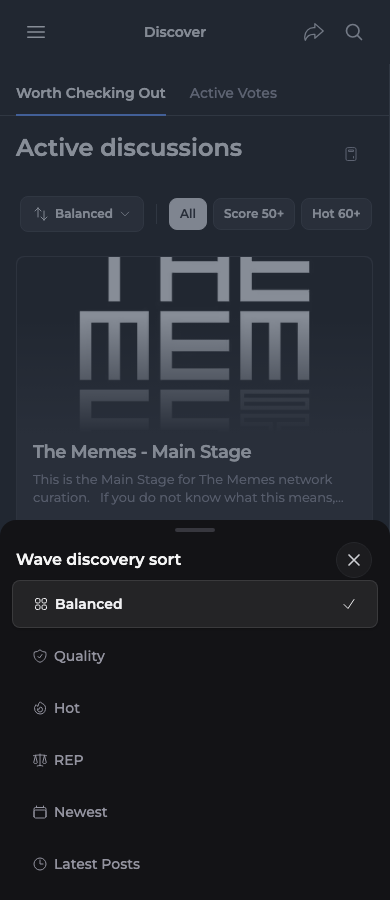
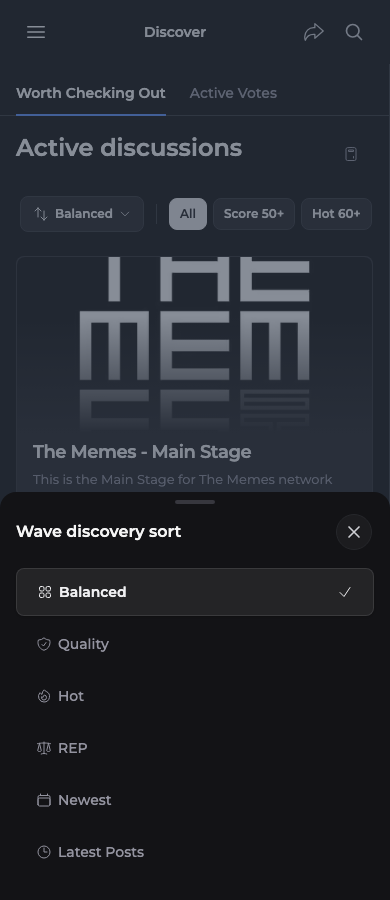
Give the Discover sort sheet room around its title

Changed region(s): [[0.0, 0.5289, 1.0, 0.9644]]

diff --git a/components/waves/discovery/DiscoverWaveControls.tsx b/components/waves/discovery/DiscoverWaveControls.tsx
@@ -219,9 +219,8 @@ export function DiscoverWaveControls({
         onClose={() => setSortOpen(false)}
         title={sortLabel}
         focusTitleOnOpen
-        noPadding
       >
-        <div className="tw-space-y-1 tw-px-3 tw-pb-3">
+        <div className="tw-space-y-1 tw-px-4 tw-pt-4 sm:tw-px-6">
           {SORT_OPTIONS.map((option) => (
             <Button
               key={option.value}
